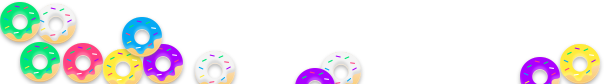
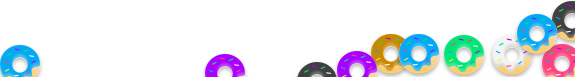
Update auth pages

diff --git a/src/components/pages/auth/Signin/index.jsx b/src/components/pages/auth/Signin/index.jsx
@@ -94,12 +94,12 @@ export default class Signin extends Component {
             placeholder="Password"
           />
         <Button onClick={::this.onSubmit} type="primary" className={btn}>Log in</Button>
-          <span className={text}>You are loging in to <b><Link to="/signin">{isDemo ? "Demo" : selectedSchool.name}</Link></b>. Forgot your password? Click this link.</span>
+          <span className={text}>You are logging in to <b><Link to="/signin">{isDemo ? "Demo" : selectedSchool.name}</Link></b>. Forgot your password? Click on this link.</span>
         </div>
 
         <div className={layoutSelectSchoolFotter}>
-          <div className={layoutSelectSchoolFotterLeft}></div>
-          <div className={layoutSelectSchoolFotterRight}></div>
+          <img src="/public/assets/images/auth/donuts_left.svg" alt=""/>
+          <img src="/public/assets/images/auth/donuts_right.svg" alt=""/>
         </div>
       </div>
     )

diff --git a/src/components/pages/auth/SelectSchool/index.jsx b/src/components/pages/auth/SelectSchool/index.jsx
@@ -39,7 +39,7 @@ export default class SelectSchool extends Component {
     return (
       <div className={layoutSelectSchool}>
         <div className={layoutSelectSchoolHeader}>
-          <h2 className={layoutSelectSchoolTitle}>Yo. What is your campus?</h2>
+          <h2 className={layoutSelectSchoolTitle}>What is your campus?</h2>
         </div>
         <div className={layoutSelectSchoolContent}>
           <InputSearchSchool
@@ -48,8 +48,8 @@ export default class SelectSchool extends Component {
           />
         </div>
         <div className={layoutSelectSchoolFotter}>
-          <div className={layoutSelectSchoolFotterLeft}></div>
-          <div className={layoutSelectSchoolFotterRight}></div>
+          <img src="/public/assets/images/auth/donuts_left.svg" alt=""/>
+          <img src="/public/assets/images/auth/donuts_right.svg" alt=""/>
         </div>
       </div>
     )

diff --git a/src/components/pages/auth/SelectSchool/style.scss b/src/components/pages/auth/SelectSchool/style.scss
@@ -5,13 +5,13 @@
   flex-flow: column;
   align-items: center;
   height: 100vh;
-  background-color: $orange;
+  background-color: #fffcd4;
 }
 
 .layout--select-school__header {
   display: flex;
   align-items: center;
-  height: 20%;
+  height: 50%;
 }
 
 .layout--select-school__fotter {
@@ -35,8 +35,9 @@
 }
 
 .layout--select-school__title {
-  @include h1;
-  color: $darkgray;
+  font-size: 40px;
+  font-weight: 900;
+  color: #404040;
 }
 
 .layout--select-school__content {

diff --git a/src/components/pages/auth/Signup/index.jsx b/src/components/pages/auth/Signup/index.jsx
@@ -125,8 +125,8 @@ export default class Signup extends Component {
         </div>
 
         <div className={layoutSelectSchoolFotter}>
-          <div className={layoutSelectSchoolFotterLeft}></div>
-          <div className={layoutSelectSchoolFotterRight}></div>
+          <img src="/public/assets/images/auth/donuts_left.svg" alt=""/>
+          <img src="/public/assets/images/auth/donuts_right.svg" alt=""/>
         </div>
 
       </div>

diff --git a/src/components/pages/auth/Signup/style.scss b/src/components/pages/auth/Signup/style.scss
@@ -31,6 +31,7 @@
   margin-right: 55px;
   font-size: 14px;
   text-transform: uppercase;
+  padding-bottom: 2px;
   font-weight: bold;
   cursor: pointer;
   border-bottom: 2px solid #878787;

diff --git a/src/components/pages/auth/Signin/style.scss b/src/components/pages/auth/Signin/style.scss
@@ -41,6 +41,7 @@
   text-transform: uppercase;
   font-weight: bold;
   cursor: pointer;
+  padding-bottom: 2px;
   border-bottom: 2px solid #878787;
 }
 
